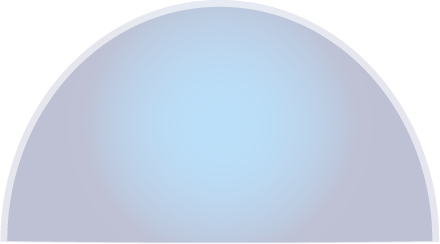
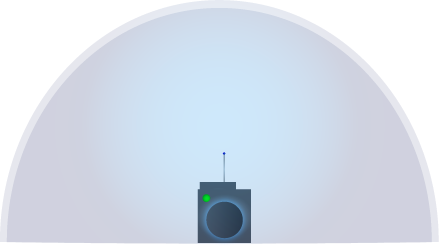
Added level 2 art files

diff --git a/coolgame/GameObjects/Buildings/Tower.cs b/coolgame/GameObjects/Buildings/Tower.cs
@@ -15,7 +15,7 @@ namespace coolgame
 
         public Tower(ContentManager content, int groundLevel, int basePosition) : base(content)
         {
-            SetTexture("tower");
+            SetTexture("tower1");
             Width = texture.Width;
             Height = texture.Height;
             X = basePosition + 150;

diff --git a/coolgame/GameObjects/Buildings/Turret.cs b/coolgame/GameObjects/Buildings/Turret.cs
@@ -22,7 +22,7 @@ namespace coolgame
 
         public Turret(ContentManager content, int groundLevel, Enemy.EnemyDirection enemyDirection) : base(content, groundLevel)
         {
-            SetTexture("turret");
+            SetTexture("turret1");
 
             Y = groundLevel - Height;
 

diff --git a/coolgame/GameObjects/Buildings/Base.cs b/coolgame/GameObjects/Buildings/Base.cs
@@ -23,7 +23,7 @@ namespace coolgame
         {
             layerDepth += .02f;
 
-            SetTexture("base");
+            SetTexture("base1");
             X = Game.GAME_WIDTH / 2 - Width / 2 - 50;
             Y = groundLevel - Height;
             healthBar.MaxHealth = 200;
